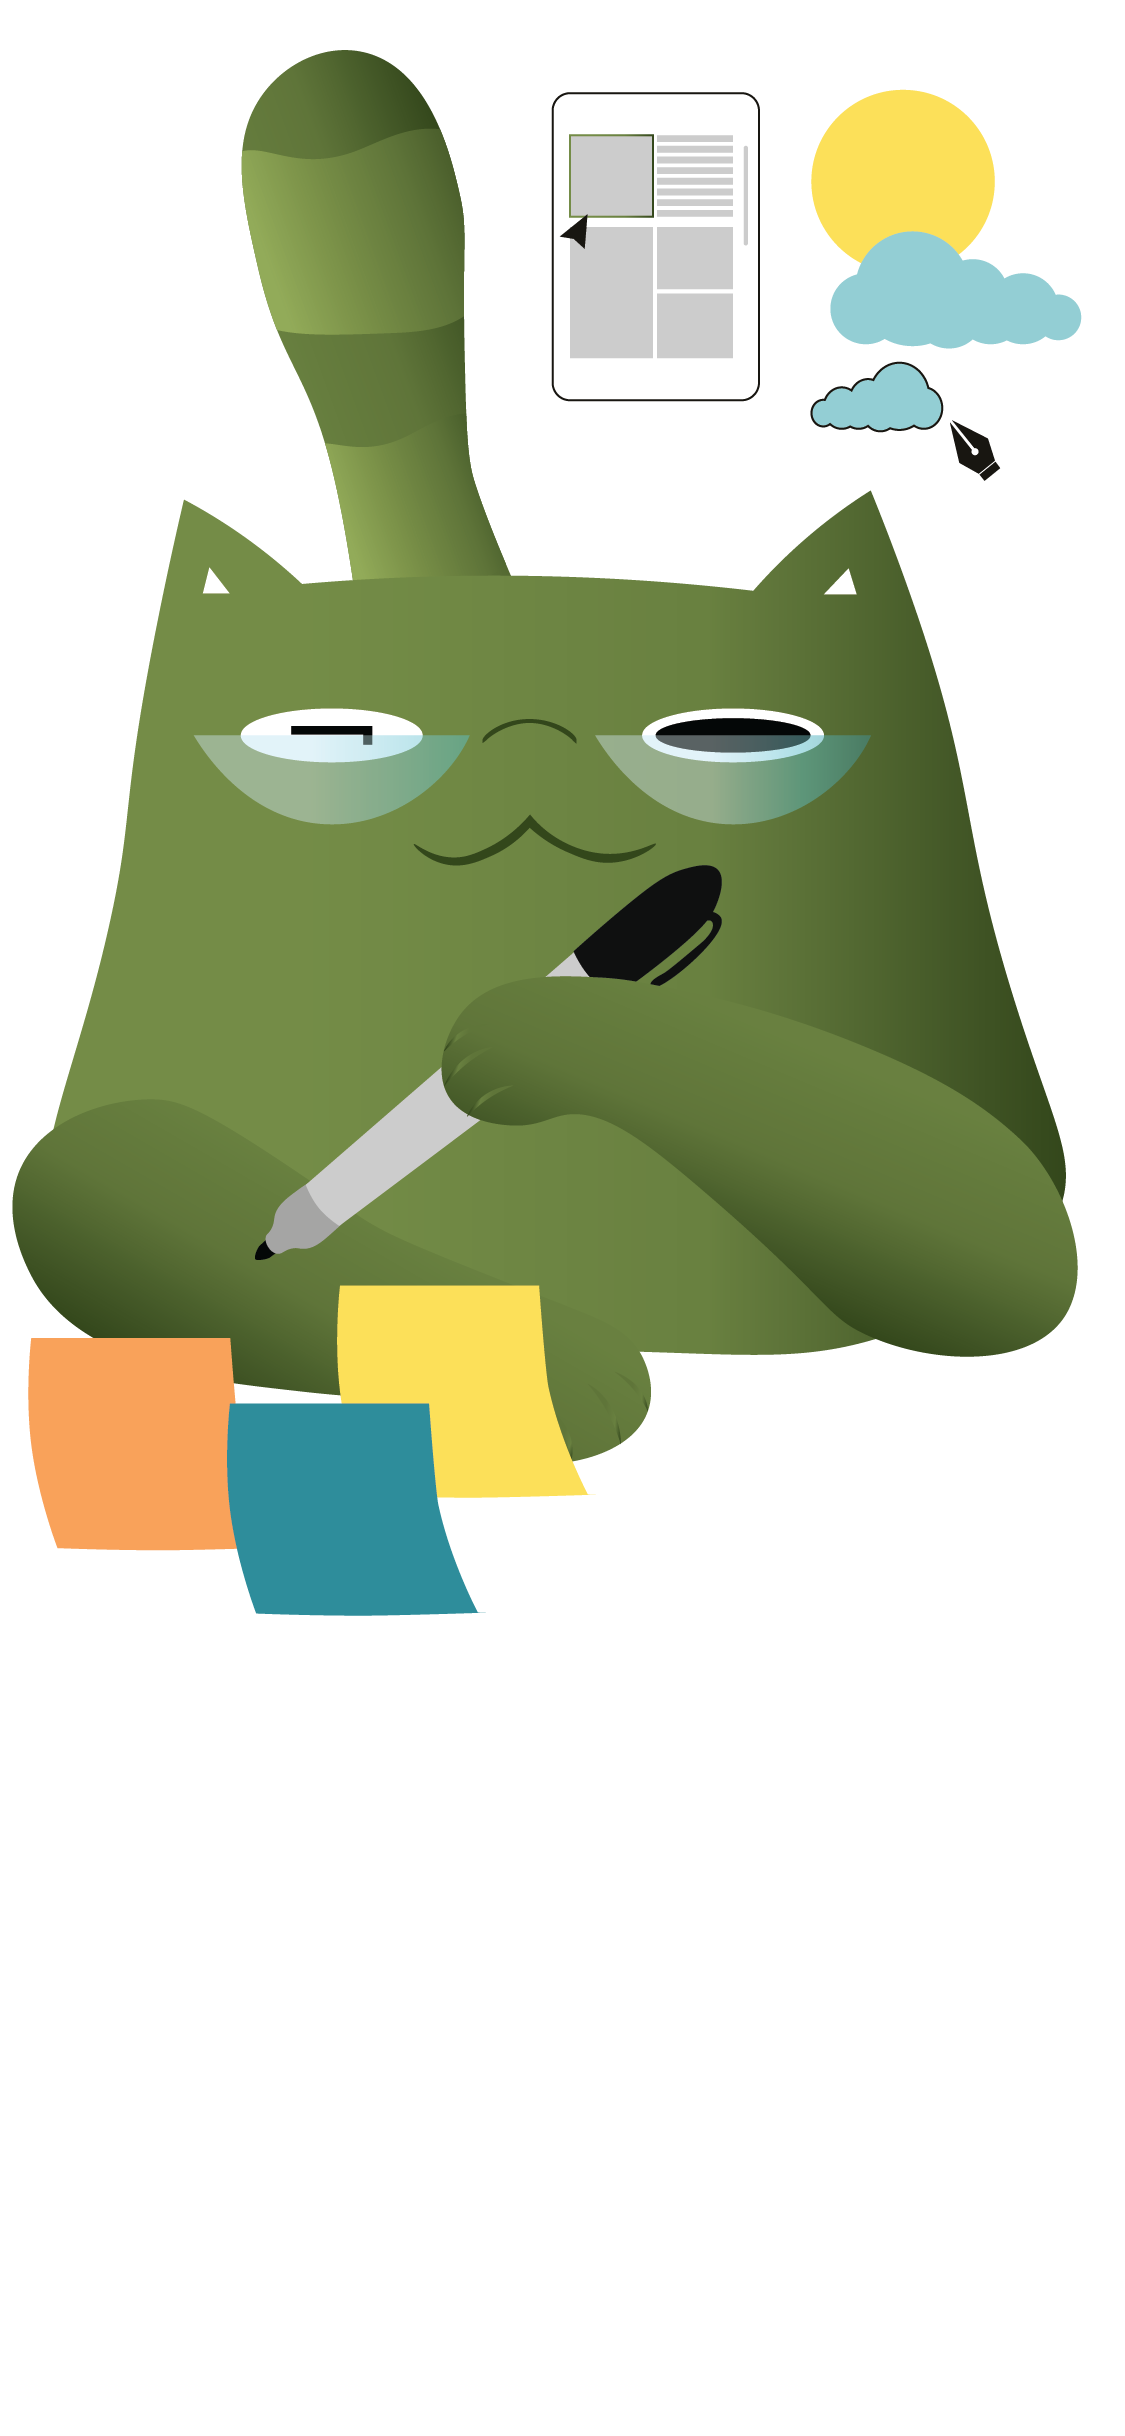
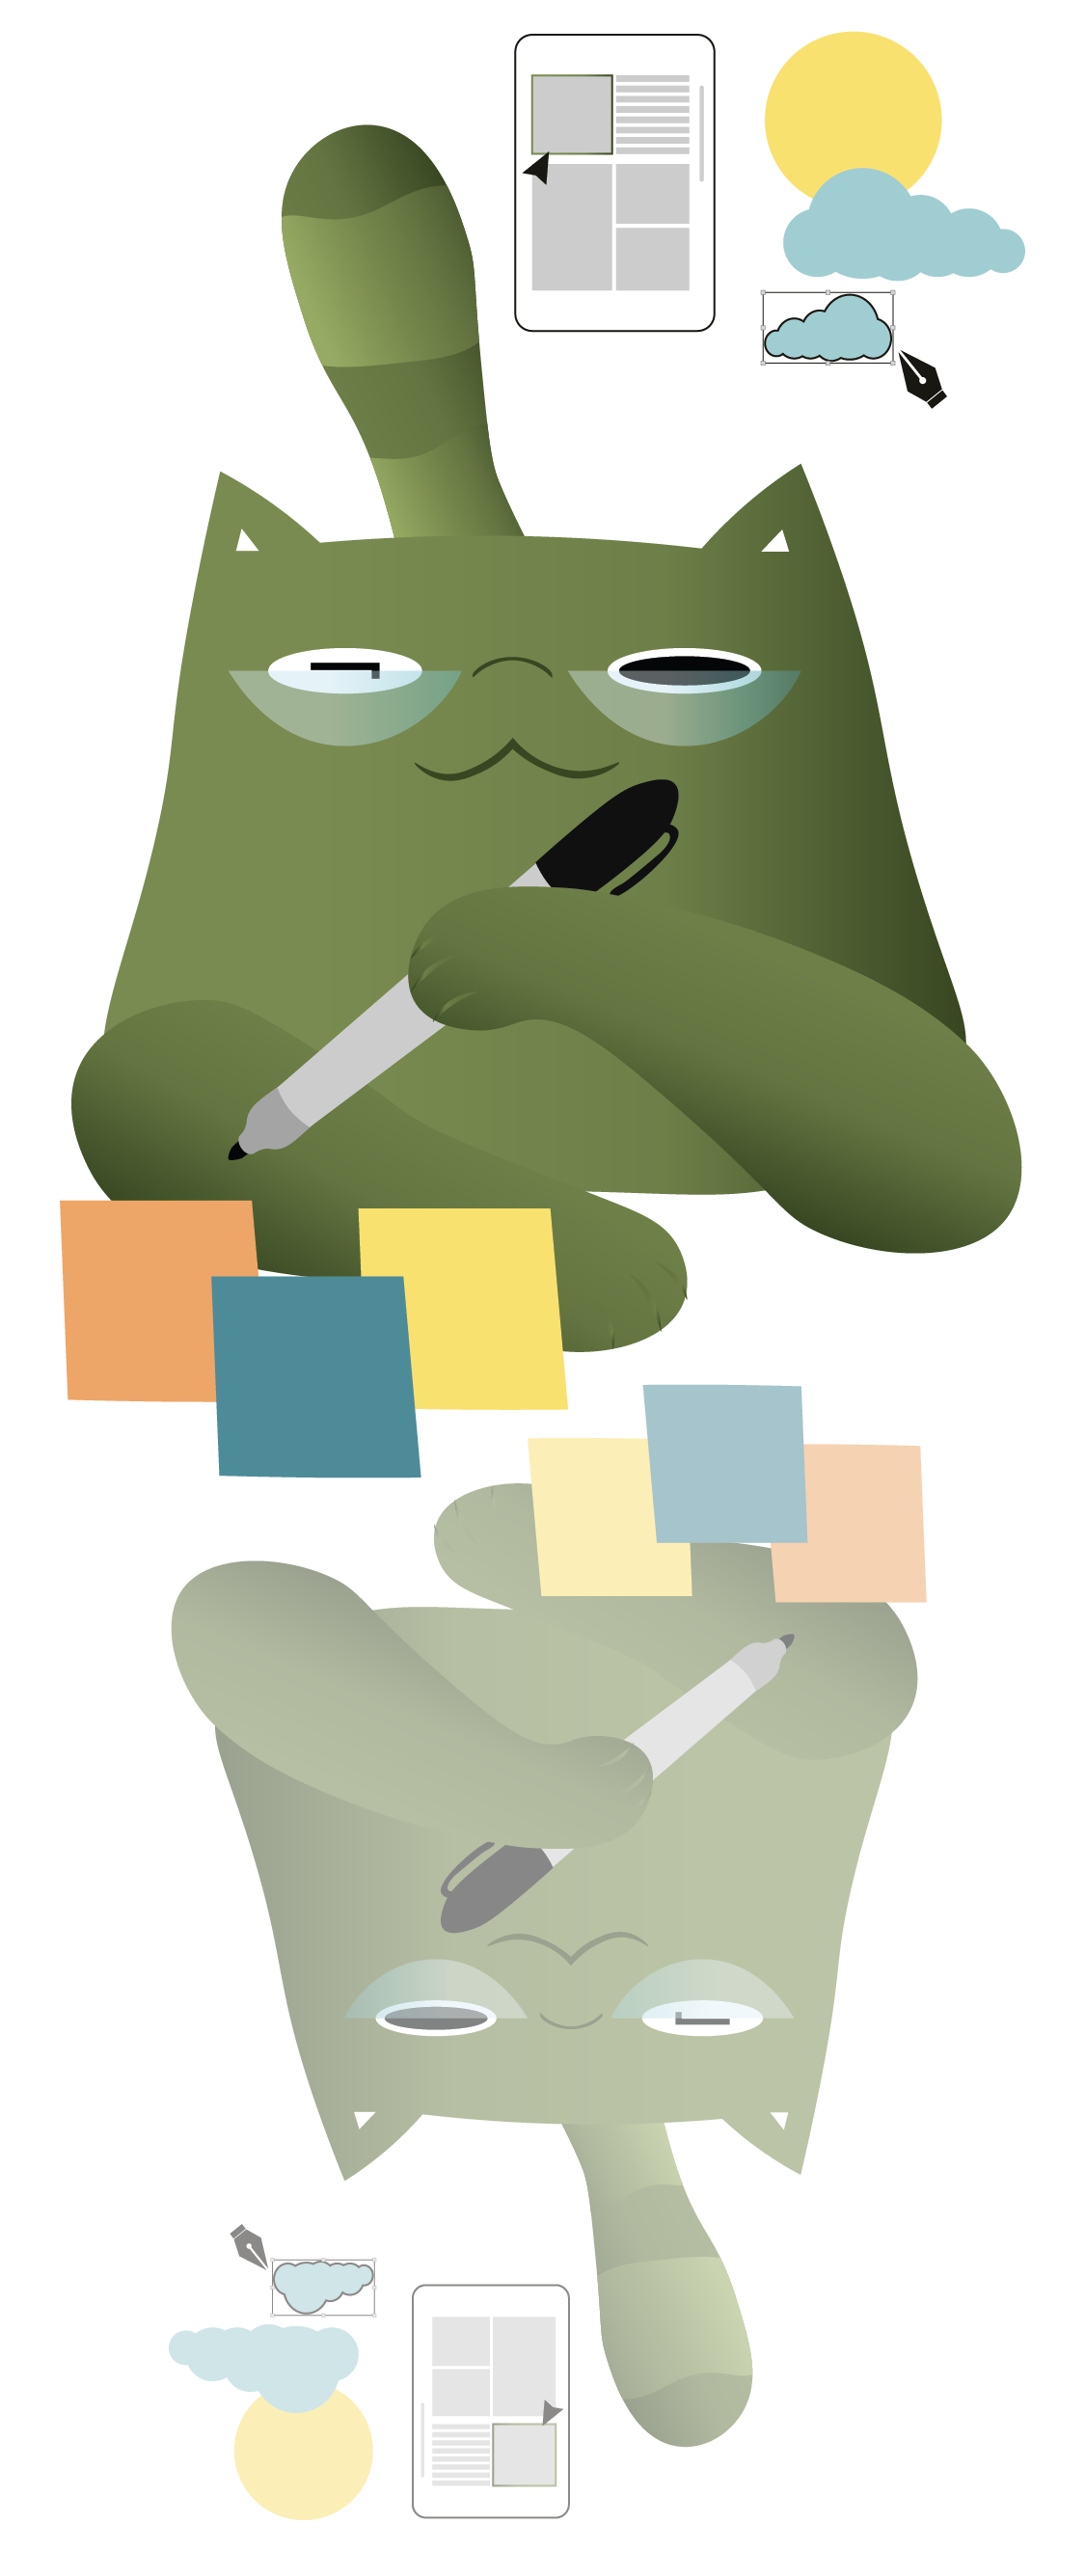
reworked designsto be line-art instead of full color, edited card descriptions

diff --git a/src/index.css b/src/index.css
@@ -161,7 +161,7 @@ span .introYBounce:active {
 .cardContainer {
   display: inline-block;
   width: 15rem;
-  height: 25rem;
+  height: 28.5rem;
   margin: 1rem;
   /* perspective: 10px; */
 }
@@ -207,26 +207,28 @@ span .introYBounce:active {
   font-weight: 500;
   font-style: normal;
   line-height: 1.2;
-  position: absolute;
-  text-align: left;
-  top: -1.25rem;
+  position: relative;
+  top: 45%;
+  text-align: center;
+  background-color: rgba(255, 255, 255, 0.75);
+  padding-right: 0.25rem;
+  padding-left: 0.25rem;
+  padding-top: 0.25rem;
+  padding-bottom: 0.25rem;
+  border-radius: 7px;
 }
 
 /* base dimensions on cardContainer's */
-.developerCat {
-  height: 30rem;
-  width: 15rem;
-  position: absolute;
-  top: 3.25rem;
-  left: 0;
-}
 
-.designCat {
-  height: 30rem;
+.developerCat,
+.designCat,
+.researchCat {
+  height: 35rem;
   width: 15rem;
   position: absolute;
-  top: 4.5rem;
+  top: 0;
   left: 0;
+  opacity: 0.66;
 }
 
 .flipInstruct {
@@ -234,7 +236,7 @@ span .introYBounce:active {
   font-size: 0.75rem !important;
   font-style: italic;
   position: absolute;
-  top: 23rem;
+  top: 92.5%;
   right: 0.5rem;
   line-height: 1.2;
   background-color: rgba(255, 255, 255, 0.75);
@@ -250,12 +252,16 @@ span .introYBounce:active {
   transform: rotateY(180deg);
 }
 
-.front > p,
-.back > ul {
-  list-style-type: none;
-  /* list-style: none; */
-  font-size: 0.9rem;
-  padding: 1rem;
+.back > p {
+  font-size: 1.25rem;
+  color: #5f7539;
+  position: relative;
+  top: 20%;
+  padding: 1.5rem;
+}
+
+.researchDesc {
+  top: 15% !important;
 }
 
 /* END custom styling for CARDS section */

diff --git a/src/components/card/cardSection.tsx b/src/components/card/cardSection.tsx
@@ -7,24 +7,27 @@ export class CardSection extends React.Component {
       <div className="cardWrapper">
         <Card
           role="Product and brand designer"
-          roleImg="src/components/card/greenCatDesigner.png"
+          roleImg="src/components/card/greenCatDesignerLine.png"
           roleImgAlt="A green Cheshire-inspired cat wearing glasses holding a sharpie and facing post-it notes, with a mobile phone mockup above it"
           roleClass="designCat"
-          desc="Loves bridging the designer-engineer gap — skilled at ideating on Figma"
+          roleDesc="designDesc"
+          desc="One side of bridging the designer-engineer gap — skilled at taking ideas from ideation to implementation, from Sharpie on post-it notes to Figma."
         />
         <Card
           role="Developer"
-          roleImg="src/components/card/greenCatDeveloper.png"
+          roleImg="src/components/card/greenCatDeveloperLine.png"
           roleImgAlt="A green Cheshire-inspired cat wearing glasses in front of a laptop with code against black window screens above"
           roleClass="developerCat"
-          desc="Loves bridging the designer-engineer gap. Works primarily in React and TypeScript, getting the hang of Svelte."
+          roleDesc="developerDesc"
+          desc="Another side of bridging the designer-engineer gap. Working primarily in React and TypeScript to make designs come to life while getting the hang of Svelte."
         />
         <Card
           role="Data journalist, analyst and researcher"
-          roleImg="src/components/card/greenCatResearch.png"
-          roleImgAlt="A green Cheshire-inspired cat wearing glasses in front of a laptop"
+          roleImg="src/components/card/greenCatResearchLine.png"
+          roleImgAlt="A green Cheshire-inspired cat wearing glasses in front several window screens and email-related icon. There are chart and code-related screenshots above the cat."
           roleClass="researchCat"
-          desc="Avid lover of searching for and scraping data from hard-to-get places. Experienced at working with unstructured and large structured data using Python and occasionally R and SQL."
+          roleDesc="researchDesc"
+          desc="Avid lover of searching for and scraping data from hard-to-get places. Experienced at working with large unstructured and structured data using Python and occasionally R and SQL."
         />
       </div>
     );

diff --git a/src/components/card/card.tsx b/src/components/card/card.tsx
@@ -5,6 +5,7 @@ type CardProps = {
   roleImg?: string;
   roleImgAlt?: string;
   roleClass?: string;
+  roleDesc?: string;
   desc?: string;
 };
 
@@ -19,13 +20,11 @@ export class Card extends React.Component<CardProps> {
               src={this.props.roleImg}
               alt={this.props.roleImgAlt}
             ></img>
-            <p className="cardRole">{this.props.role}</p>
+            <span className="cardRole">{this.props.role}</span>
             <span className="flipInstruct">hover to flip card</span>
           </div>
           <div className="back">
-            <ul>
-              <li>{this.props.desc}</li>
-            </ul>
+            <p className={this.props.roleDesc}>{this.props.desc}</p>
           </div>
         </div>
       </div>